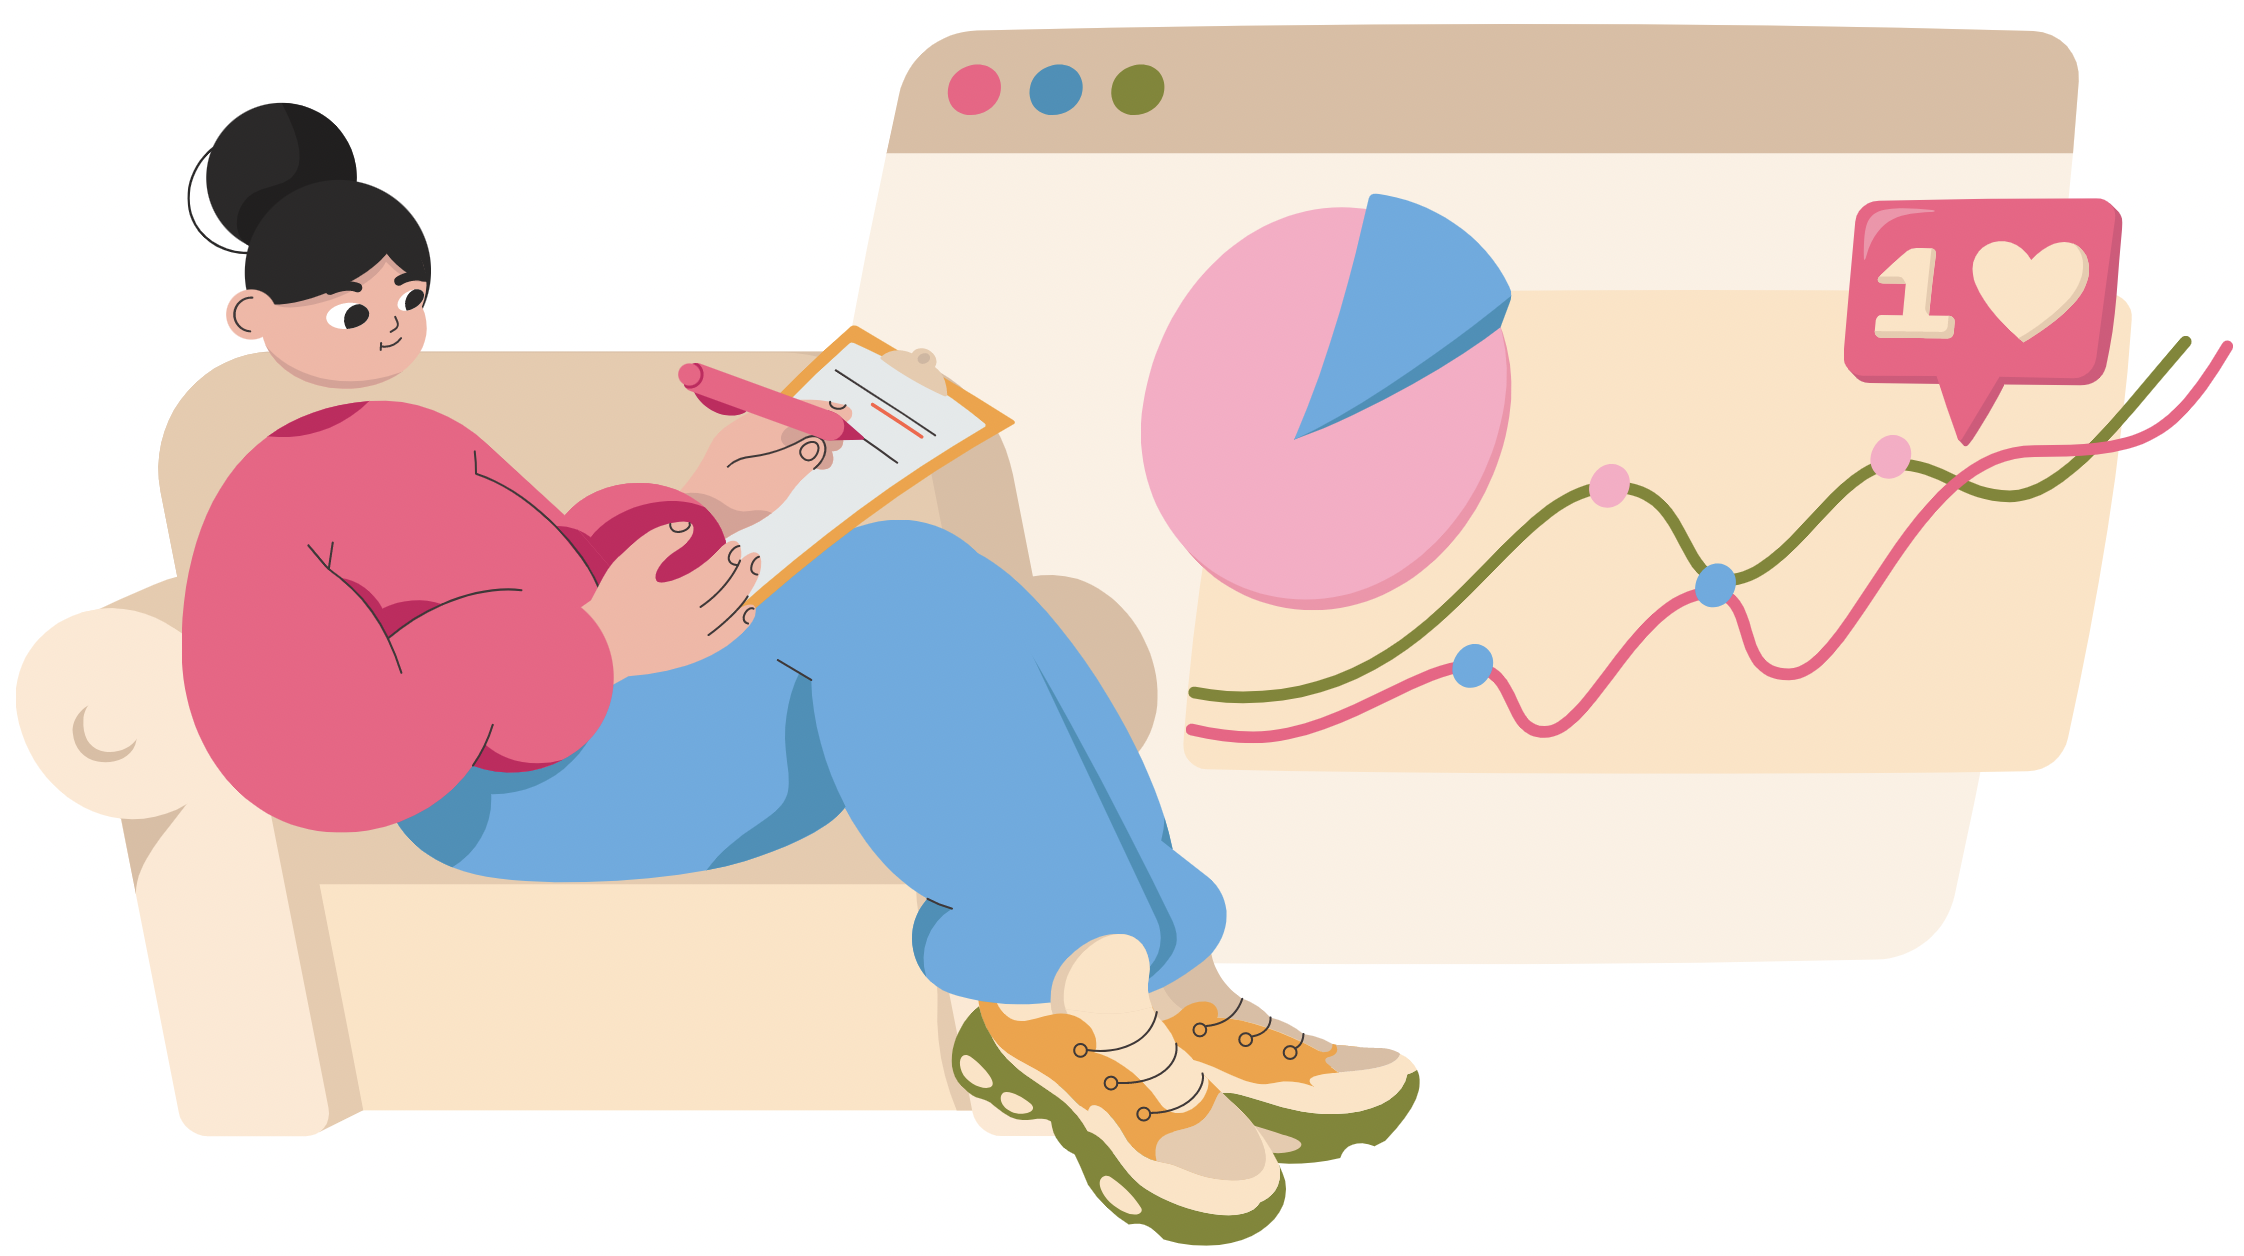
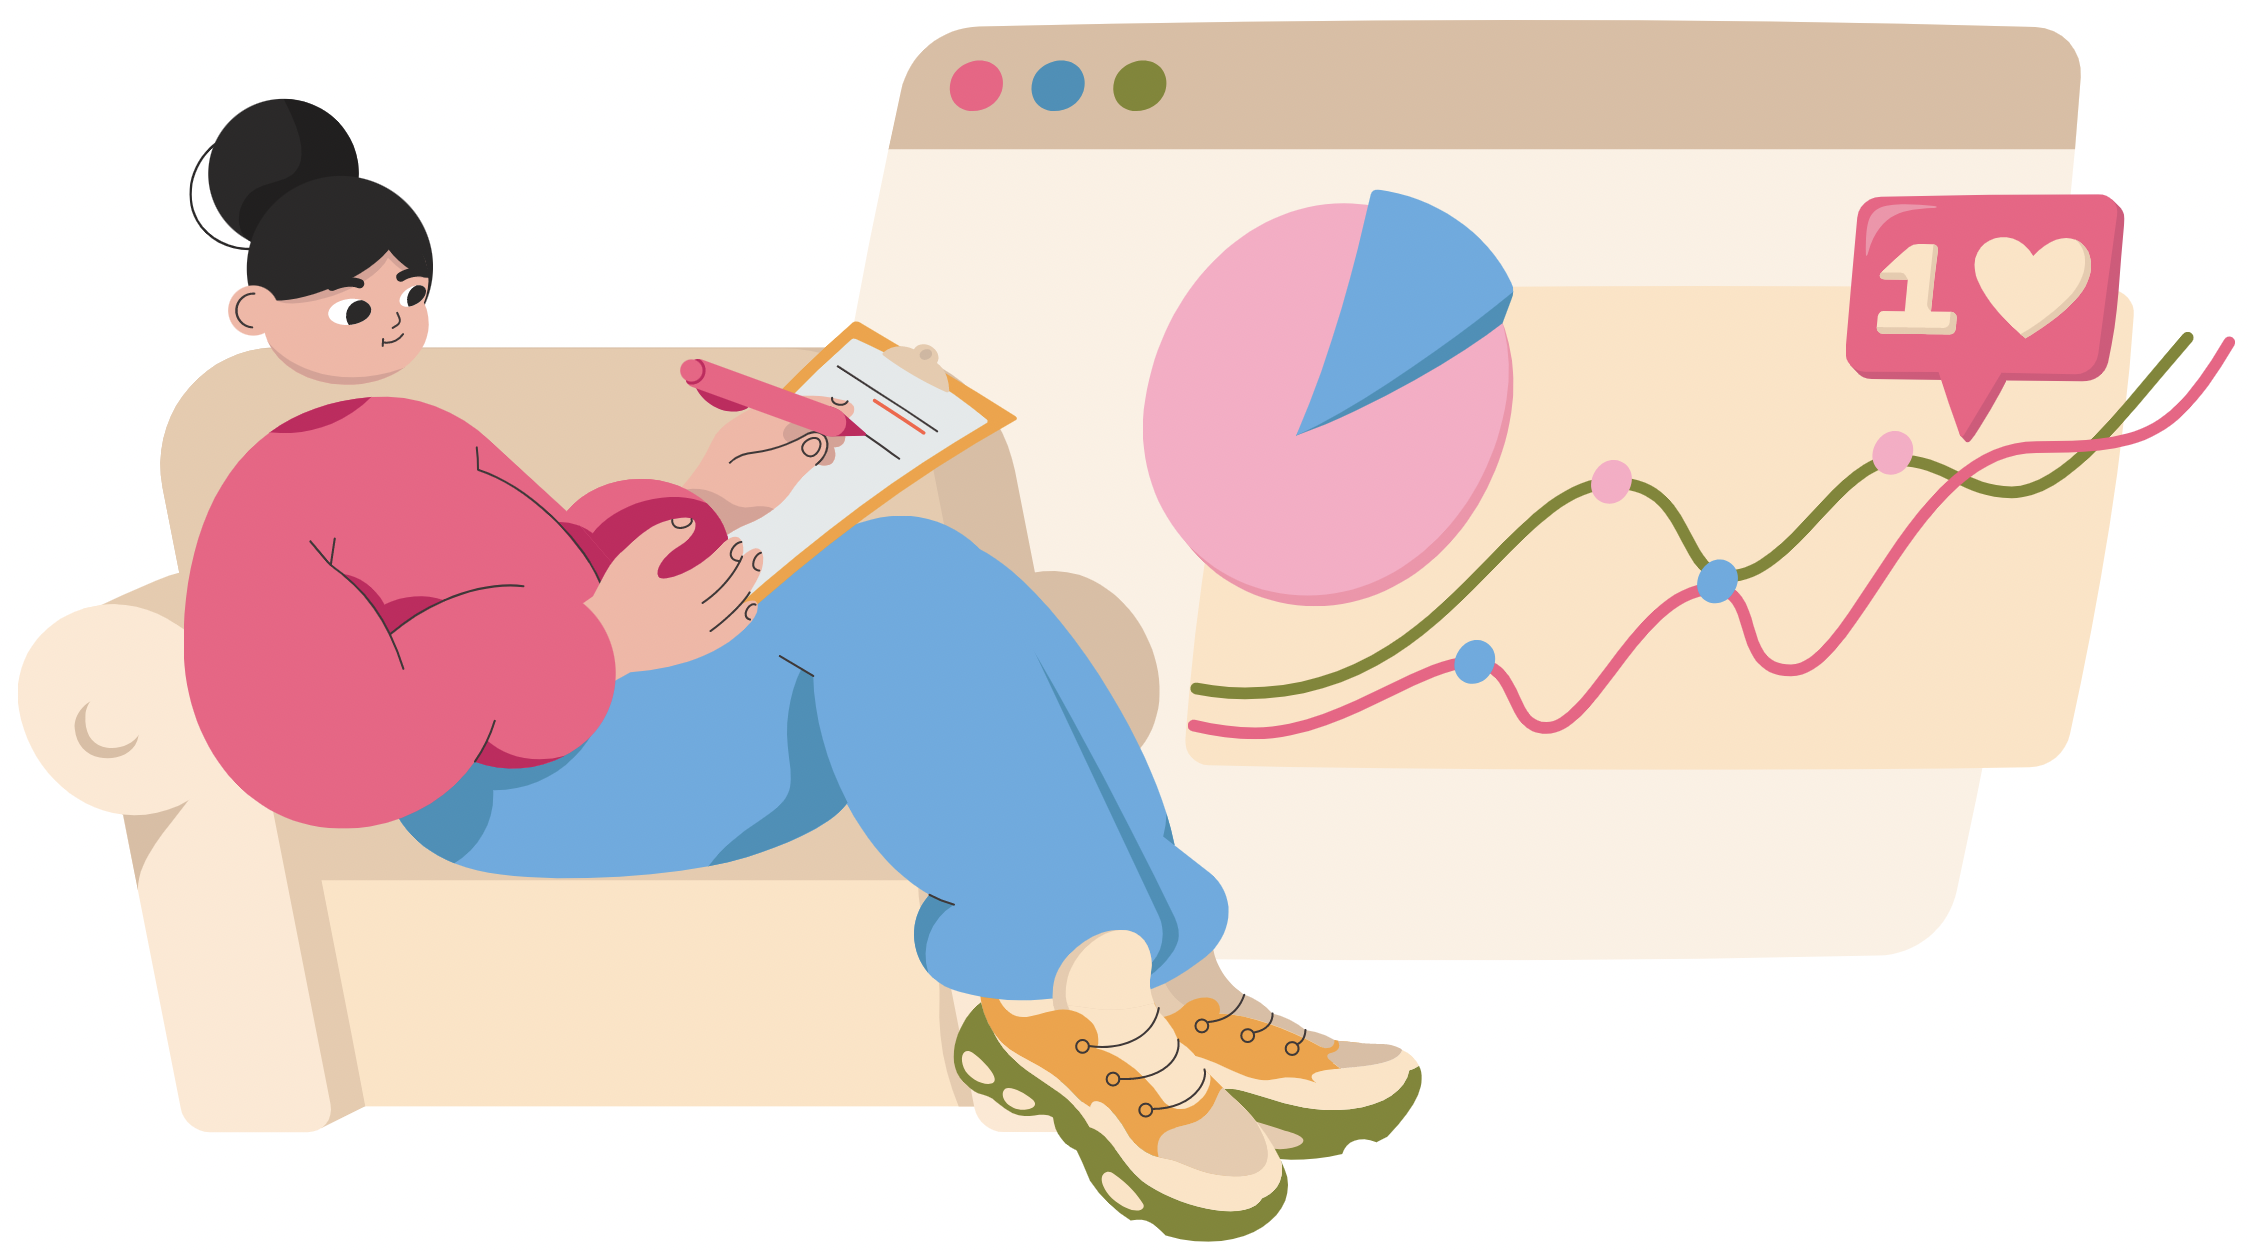
[Client] UPDATE: 헤더 간격 수정, 이미지 파일 전부 통일성 있게 교체

diff --git a/client/components/home/footer.tsx b/client/components/home/footer.tsx
@@ -9,6 +9,7 @@ export default function Footer() {
           <a
             href="https://github.com/shren207"
             target="_blank"
+            rel="noreferrer"
             className={styles.member}
           >
             <div className={styles.member_name}>윤녹두</div>
@@ -17,6 +18,7 @@ export default function Footer() {
           <a
             href="https://github.com/forcoding97"
             target="_blank"
+            rel="noreferrer"
             className={styles.member}
           >
             <div className={styles.member_name}>정윤석</div>
@@ -25,6 +27,7 @@ export default function Footer() {
           <a
             href="https://github.com/tmdqls2257"
             target="_blank"
+            rel="noreferrer"
             className={styles.member}
           >
             <div className={styles.member_name}>홍승빈</div>
@@ -33,6 +36,7 @@ export default function Footer() {
           <a
             href="https://github.com/minho0513"
             target="_blank"
+            rel="noreferrer"
             className={styles.member}
           >
             <div className={styles.member_name}>이민호</div>

diff --git a/client/styles/Home.module.css b/client/styles/Home.module.css
@@ -43,7 +43,7 @@
 
 .title_description {
   line-height: 1.4;
-  width: 20vw;
+  width: 35vw;
   margin: 1.5vw auto 3vw auto;
   font-size: 2vw;
   font-weight: 800;
@@ -220,7 +220,7 @@
 
 .nav_menu {
   display: flex;
-  padding-top: 3%;
+  padding-top: 2.7%;
   padding-left: 3vw;
   text-decoration: none;
 }
